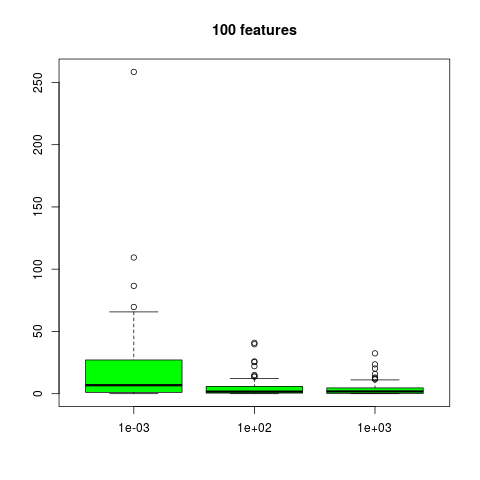
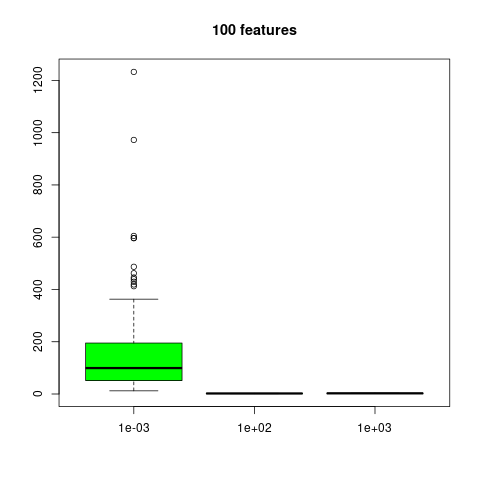
mv figure reproducing to issue #245

diff --git a/docs/18-High-Dimensional-Problems/18.1-When-p-is-Much-Bigger-than-N.md b/docs/18-High-Dimensional-Problems/18.1-When-p-is-Much-Bigger-than-N.md
@@ -4,11 +4,8 @@
 | ---- | ---------------------------------------- |
 | 翻译   | szcf-weiya                               |
 | 发布 | 2017-03-14 |
-| 更新   | 2019-08-17 10:52:02                  |
+| 更新   | {{ git_revision_date }}                  |
 | 状态 | Done |
-
-!!! note "更新笔记"
-    @2017-12-28 使用 R Notwbook 记录了模拟本节中的例子的具体过程，详见[**这里**](../notes/HighDim/sim18_1/index.html)．
 
 这章中我们讨论特征的个数 $p$ 远大于观测的个数 $N$ 的预测问题，通常写成 $p >> N$．这样的问题变得越来越重要，特别是在基因和其他计算生物的领域中．我们将会看到这种情形下，**高方差 (high variance)** 和 **过拟合 (overfitting)** 是主要的考虑对象．结果表明，经常选择简单、高正则化的方式．本章的第一部分关注分类和回归中的预测问题，而第二部分讨论特征选择和特征评估这些更基本的问题．
 
@@ -27,6 +24,12 @@ $$
 
 > 图 18.1. 模拟实验的测试误差结果．显示了 3 个不同 $p$ 值（特征的数目）下，100 次模拟的相对测试误差的箱线图．相对误差是测试误差除以贝叶斯误差 $\sigma^2$．从左到右，显示了三个不同的正则化参数 $\lambda:0.001,100,1000$ 的岭回归的结果．拟合中的（平均）有效自由度在每张图的下面标出来了．
 
+!!! info "weiya 注:"
+    基本重现图 18.1，除了 p = 20 能够完美重现，其余略有差异（详见 [Issue 245](https://github.com/szcf-weiya/ESL-CN/issues/245)）
+
+    - p = 100 中 $\lambda = 0.001$ 时的均方误差会非常大，适当调高，比如设为 1，则也能重现；
+    - p = 1000 中不同 $\lambda$ 的差异似乎不大，信噪比较低时会有降低的趋势，但仍不会像上图分得那么开。
+
 我们对数据进行岭回归拟合，其中采用了三个不同的正则参数 $\lambda:0.001,100,1000$．当 $\lambda=0.001$，这近似与最小二乘一样，仅仅有一点正则来保证当 $p > N$ 时，问题不是奇异的．图 18.1 显示了在每个情形下不同的估计达到的相对测试误差的箱线图．在每个岭回归拟合中使用的对应的平均自由度（\eqref{3.50}）也标出来了．
 
 !!! note "Recall: \eqref{3.50}"
@@ -38,9 +41,9 @@ $$
     \end{align}
     $$
 
-自由度是一个比 $\lambda$ 更有解释性的参数．从图中我们看到，在 $p=20$ 时，$\lambda=0.001$(20df) 的岭回归最优；当 $p=100$ 时 $\lambda=100$(35df) 最优，并且当 $p=1000$时 $\lambda=1000$(43df) 最优．
+自由度是一个比 $\lambda$ 更有解释性的参数．从图中我们看到，在 $p=20$ 时，$\lambda=0.001$(20df) 的岭回归最优；当 $p=100$ 时 $\lambda=100$ (35df) 最优，并且当 $p=1000$ 时 $\lambda=1000$ (43df) 最优．
 
-这些结果可以解释如下．当 $p=20$ 时，我们拟合所有的情形，并且可以以低偏差尽可能地识别更多的显著系数．当 $p=100$ 时，我们可以采用中等程度的收缩识别一些非零的系数．最后，当 $p=1000$ 时，即使有许多非零系数，我们并不希望找到它们，并且我们需要收缩它们．为了说明这个结论，令 $t_j=\hat\beta_j/\widehat{se}_j$，其中 $\hat\beta_j$ 是岭回归估计，而 $\widehat{se}_j$ 是标准误差的估计．接着在这三种情形中取最优的岭回归参数，$\vert t_j\vert$ 为 2.0,0.6 和 0.2，并且超过 2 的 $\vert t_j\vert$ 的平均个数等于 9.8,1.2 和 0.0．
+这些结果可以解释如下．当 $p=20$ 时，我们拟合所有的情形，并且可以以低偏差尽可能地识别更多的显著系数．当 $p=100$ 时，我们可以采用中等程度的收缩识别一些非零的系数．最后，当 $p=1000$ 时，即使有许多非零系数，但我们并不希望找到它们，而且需要统一收缩它们．为了说明这个结论，令 $t_j=\hat\beta_j/\widehat{se}_j$，其中 $\hat\beta_j$ 是岭回归估计，而 $\widehat{se}_j$ 是标准误差的估计．接着在这三种情形中取最优的岭回归参数，$\vert t_j\vert$ 为 2.0, 0.6 和 0.2，并且超过 2 的 $\vert t_j\vert$ 的平均个数等于 9.8,1.2 和 0.0．
 
 $\lambda=0.001$ 的岭回归成功利用了当 $ p < N$ 时的特征的相关性，但是当 $ p > > N$ 时不能这样处理．在后者的情形下，在相对较少的样本中没有足够的信息来有效估计高维协方差阵．这种情形下，更大的正则化会有更好的预测表现．
 
